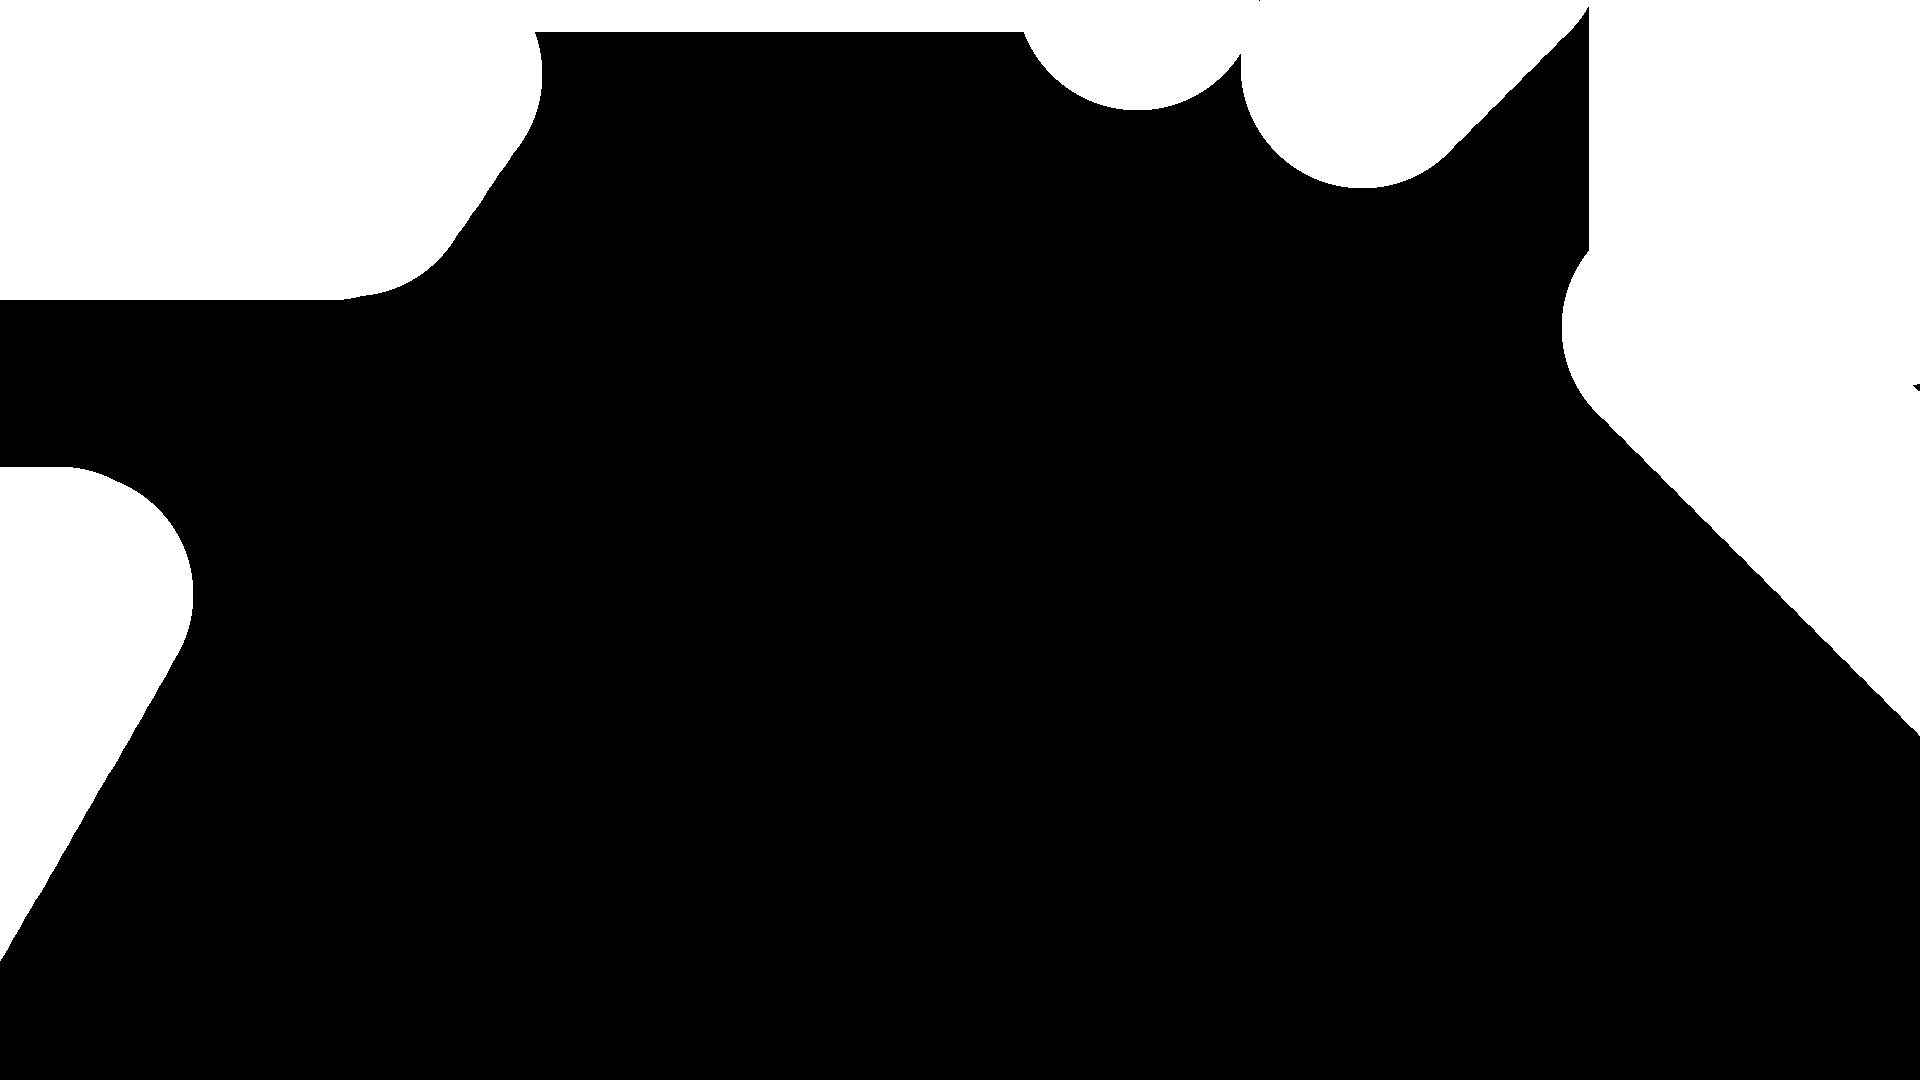
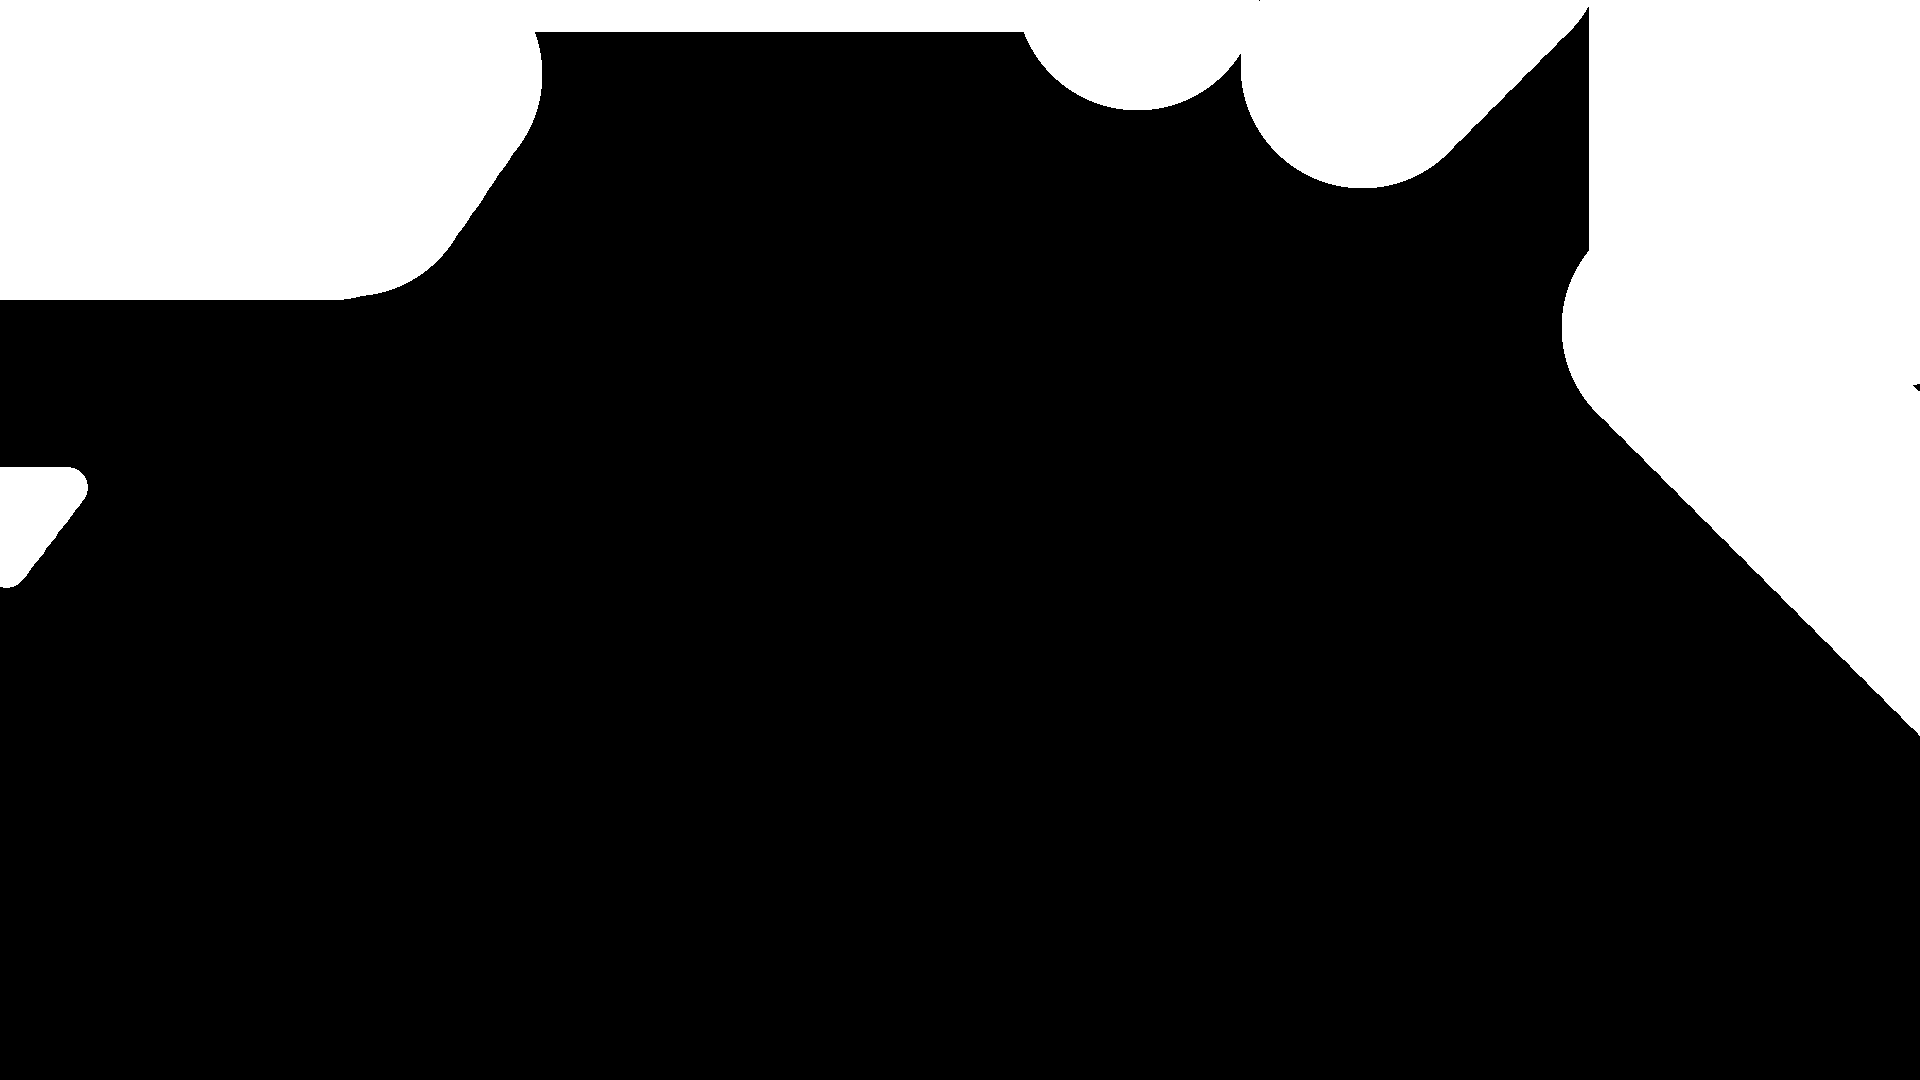
added bbfiltering

Changed region(s): [[0.0, 0.4278, 0.125, 0.8861]]

diff --git a/src/utils/bbfilters.py b/src/utils/bbfilters.py
@@ -1,0 +1,147 @@
+#!/usr/bin/env python2
+# -*- coding: utf-8 -*-
+"""
+This file contains a set of filters for Bounding Boxes analyisis.
+
+Created on Wed Oct 31 12:19:00 2018
+
+@author: daniaz
+"""
+import cv2
+import numpy as np
+
+def sort_contours(cnts, method="left-to-right"):
+	# initialize the reverse flag and sort index
+	reverse = False
+	i = 0
+ 
+	# handle if we need to sort in reverse
+	if method == "right-to-left" or method == "bottom-to-top":
+		reverse = True
+ 
+	# handle if we are sorting against the y-coordinate rather than
+	# the x-coordinate of the bounding box
+	if method == "top-to-bottom" or method == "bottom-to-top":
+		i = 1
+ 
+	# construct the list of bounding boxes and sort them from top to
+	# bottom
+	boundingBoxes = [cv2.boundingRect(c) for c in cnts]
+	if len(cnts):
+        	(cnts, boundingBoxes) = zip(*sorted(zip(cnts, boundingBoxes),
+        		key=lambda b:b[1][i], reverse=reverse))
+ 
+	# return the list of sorted contours and bounding boxes
+	return (cnts, boundingBoxes)
+
+def bbfilters(rects,im, wf_high=0.95, hf_high=0.8, wf_low=0.02, hf_low=0.1, 
+    min_size=0.001, max_size=0.1, form_factor_low=0.3, form_factor_high=10, debug=False,
+    reverse = True):
+    """
+    @brief Filters large, small, and uncommon bboxes filling them with white
+    @param im image that has to be cleared
+    @param org image to be filled with ones and be returned
+    @param wf_high maximum width of the bbox relative to im width size
+    @param wf_low  minimum width of the bbox relative to im width size
+    @param hf_high maximum height of the bbox relative to im height size
+    @param hf_low  minimum height of the bbox relative to im height size
+    @param min_size minimum pixel size for the bbox relative to image's pixels
+    @param form_factor_low minimum bbox ratio (w/h)
+    @param form_factor_high maximum bbox ratio (w/h)
+    @param debug wether or not show debug comments (no waitKey)
+    @return image image cleared
+    @return new_bb_list new list of unfiltered bboxes
+    """
+    ih,iw = im.shape[:2]
+    wf_high = iw*wf_high if isinstance(wf_high, float) else wf_high
+    hf_high = hf_high*ih if isinstance(hf_high, float) else hf_high
+    wf_low  = max(iw*wf_low, 3) if isinstance(wf_low, float) else wf_low 
+    hf_low  = max(ih*hf_low, 3) if isinstance(hf_low, float) else hf_low
+    min_size = im.size*min_size if isinstance(min_size, float) else min_size     
+    max_size = im.size*max_size if isinstance(max_size, float) else max_size     
+    
+    good_bboxes = []
+    bad_bboxes = []
+    # print("==============")
+    for x1,y1,x2,y2 in rects:
+        w = x2-x1
+        h = y2-y1
+        box_factor = float(w)/float(h)
+        box_size = w*h
+        # print("-----------")
+        # msg = f"h:{h}, max:{hf_high} min:{hf_low}"
+        # msg += f"\nw:{w}, max:{wf_high} min:{wf_low}"
+        # msg += f"\nFF:{box_factor} max:{form_factor_high}, min:{form_factor_low}"
+        # msg +=f"\n bsz:{box_size} min:{min_size}, max:{max_size}"
+        # print(msg)
+        if(w > wf_high or h > hf_high or w < wf_low or h < hf_low or \
+        box_factor > form_factor_high or box_factor < form_factor_low or \
+        min_size > box_size or max_size < box_size):
+            bad_bboxes.append((x1,y1,x2,y2))
+        else:
+            good_bboxes.append((x1,y1,x2,y2))
+
+    return good_bboxes, bad_bboxes
+    
+def bbfilters_filling(im, org=None, wf_high=0.95, hf_high=0.8, wf_low=0.02, hf_low=0.1, 
+    min_size=0.001, form_factor_low=0.3, form_factor_high=10, debug=False,
+    reverse = True):
+    """
+    @brief Filters large, small, and uncommon bboxes filling them with white
+    @param im image that has to be cleared
+    @param org image to be filled with ones and be returned
+    @param wf_high maximum width of the bbox relative to im width size
+    @param wf_low  minimum width of the bbox relative to im width size
+    @param hf_high maximum height of the bbox relative to im height size
+    @param hf_low  minimum height of the bbox relative to im height size
+    @param min_size minimum pixel size for the bbox relative to image's pixels
+    @param form_factor_low minimum bbox ratio (w/h)
+    @param form_factor_high maximum bbox ratio (w/h)
+    @param debug wether or not show debug comments (no waitKey)
+    @return image image cleared
+    @return new_bb_list new list of unfiltered bboxes
+    """
+    ih,iw = im.shape[:2]
+    wf_high = iw*wf_high if isinstance(wf_high, float) else wf_high
+    hf_high = hf_high*ih if isinstance(hf_high, float) else hf_high
+    wf_low  = max(iw*wf_low, 3) if isinstance(wf_low, float) else wf_low 
+    hf_low  = max(ih*hf_low, 3) if isinstance(hf_low, float) else hf_low
+    min_size = im.size*min_size if isinstance(min_size, float) else min_size     
+    
+    max_val = np.max(im)
+    r_im = max_val-im if reverse else im
+    r_im = r_im.astype(np.uint8)
+    cnts,_ = cv2.findContours(r_im, cv2.RETR_EXTERNAL, cv2.CHAIN_APPROX_SIMPLE)
+    _, bb_list = sort_contours(cnts)   
+    if(org is not None): 
+        image=org.copy()
+    else:
+        image=im.copy()
+    if(org is not None): im = org
+    new_bb_list = []
+    
+    
+    for x,y,w,h in bb_list:
+        box_factor = float(w)/float(h)
+        box_size = w*h
+        if(w > wf_high or h > hf_high or w < wf_low or h < hf_low or \
+        box_factor > form_factor_high or box_factor < form_factor_low or \
+        min_size > box_size):
+            image[y:y+h, x:x+w] = np.ones((h,w))*max_val
+        else:
+            new_bb_list.append((x,y,w,h))
+
+    for x,y,w,h in new_bb_list:
+        
+        image[y:y+h, x:x+w] = im[y:y+h, x:x+w]
+    
+    if debug:
+        rect = im.copy()
+        for x,y,w,h in bb_list:
+            rect = cv2.rectangle(rect,(x,y),(x+w,y+h),(0,0,0),2)
+        cv2.imshow("Contours", rect)
+        cv2.imshow("BBFilters",image)
+    
+#    if(reverse):
+#        image = max_val-image
+    return image, new_bb_list

diff --git a/src/metrics/graphs.py b/src/metrics/graphs.py
@@ -24,6 +24,7 @@ class LinePlot(object):
         plt.show(block=False)
         self.ax = self.fig.add_subplot(111)
         self.line = None
+        self.mean_line = None
         self.ax.set_ylim(0,1)
         self.ax.set_xlim(0,max_val)
         plt.xlabel("frame")
@@ -31,6 +32,8 @@ class LinePlot(object):
         # plt.xlim(auto=True)
         self.idx = 0
         self._y_data = [np.nan] * max_val
+        self._y_data_mean = [np.nan] * max_val
+        self._y_mean_values = []
         self.max_val = max_val
         
         self.save_plots=save_plots
@@ -43,6 +46,12 @@ class LinePlot(object):
             self._y_data.pop(0)
             self._y_data.append(np.nan)
             self._y_data[-1] = new_line
+            # self._y_data.append(new_line)
+            
+            self._y_data_mean.pop(0)
+            self._y_data_mean.append(np.nan)
+            self._y_data_mean[-1] = np.mean(self._y_mean_values + [new_line]) 
+            self._y_mean_values.append(self._y_data_mean[-1])
             # self.ax.set_xlim(self.idx-self.max_val, self.idx)
             # self.ax.set_xticks()
             ticks = np.arange(0, self.max_val+1, 1)
@@ -53,11 +62,15 @@ class LinePlot(object):
             plt.xticks(ticks, labels)
         else:
             self._y_data[self.idx] = new_line
+            self._y_data_mean[self.idx] = np.mean(self._y_mean_values + [new_line]) 
+            self._y_mean_values.append(self._y_data_mean[self.idx])
         if self.line is None:
             self.line, = self.ax.plot(self._y_data)
+            self.mean_line, = self.ax.plot(self._y_data_mean, linestyle=":", color="green")
         else:
             # self.line.remove()
             self.line.set_ydata(self._y_data)
+            self.mean_line.set_ydata(self._y_data_mean)
         # self.line, = plt.plot(new_line)
         self.fig.canvas.draw()
         plt.pause(0.001)

diff --git a/src/detectors/backgrounds/single_gaussian.py b/src/detectors/backgrounds/single_gaussian.py
@@ -27,6 +27,18 @@ class gausian_back_remov(object):
         
         self.mean_image = np.mean(training_frames,axis=2)
         self.variance_image = np.std(training_frames,axis=2)
+    # def train(self,frame):
+          
+    #     # training_frames = self.__convert_array_to_gray(training_frames)
+    #     # We put the images into a stack so numpy operations are easier. Shape (w,h,n_frame)
+    #     # training_frames = np.stack(training_frames,axis=2)
+    #     gframe = cv2.cvtColor(frame,cv2.COLOR_BGR2GRAY)
+    #     if(self.mean_image is None):
+    #         self.mean_image = np.zeros_like(gframe)
+    #     self.mean_image += np.divide(gframe, self.thr_n_of_training)
+        
+    #     # self.mean_image = np.mean(training_frames,axis=2)
+    #     self.variance_image = np.std(training_frames,axis=2)
         
     def apply(self,frame):
         if(self._n_of_trainings < self.thr_n_of_training):

diff --git a/src/config/general.py b/src/config/general.py
@@ -11,10 +11,10 @@ VISUALIZE = True
 
 video = AttrDict()
 video.save_video = True
-video.fname = 'output_best_adaptative_mean.avi'
+video.fname = 'output_best_adaptative_mean_2.avi'
 video.fps = 30
-video.stack_iou = False
-video.start_save = 650
+video.stack_iou = True
+video.start_save = 3000
 video.duration = 3      #duration in seconds
 
 # PRINT CONFIGURATION
@@ -51,6 +51,15 @@ detector.init_at = 535 # where to init computing IoU and mAP, after training the
 detector.alpha = 5 #Try for different values (2.5 should be good)
 detector.rho = 0.01 #If different than 0 then adaptive
 
+bbox_filter = AttrDict()
+bbox_filter.wf_high=0.4
+bbox_filter.hf_high=0.4
+bbox_filter.wf_low=0.005
+bbox_filter.hf_low=0.005 
+bbox_filter.min_size=0.0003
+bbox_filter.max_size=0.1
+bbox_filter.form_factor_low=0.2
+bbox_filter.form_factor_high=10
 
 gtruth = AttrDict()
 gtruth.static = True

diff --git a/src/main.py b/src/main.py
@@ -18,6 +18,7 @@ from line_arguments import general_parser
 
 from config.utils import obtain_general_config
 from detectors.backgrounds.single_gaussian import obtain_global_var_mean
+from utils.bbfilters import bbfilters
 
 SOURCE = "../datasets/AICity_data/train/S03/c010/vdo.avi"
 
@@ -102,6 +103,7 @@ def main(new_config):
             #Classify the result
             dt_rects = detect_func(frame)
 
+            dt_rects, _ = bbfilters(dt_rects, frame, **gconf.bbox_filter)
             #Obtain GT
             
             #Compute the metrics
@@ -112,7 +114,7 @@ def main(new_config):
                 iou_plot.update(iou_frame)
             #Print Graph
 
-
+            
             
 
             # if i > 1000:
